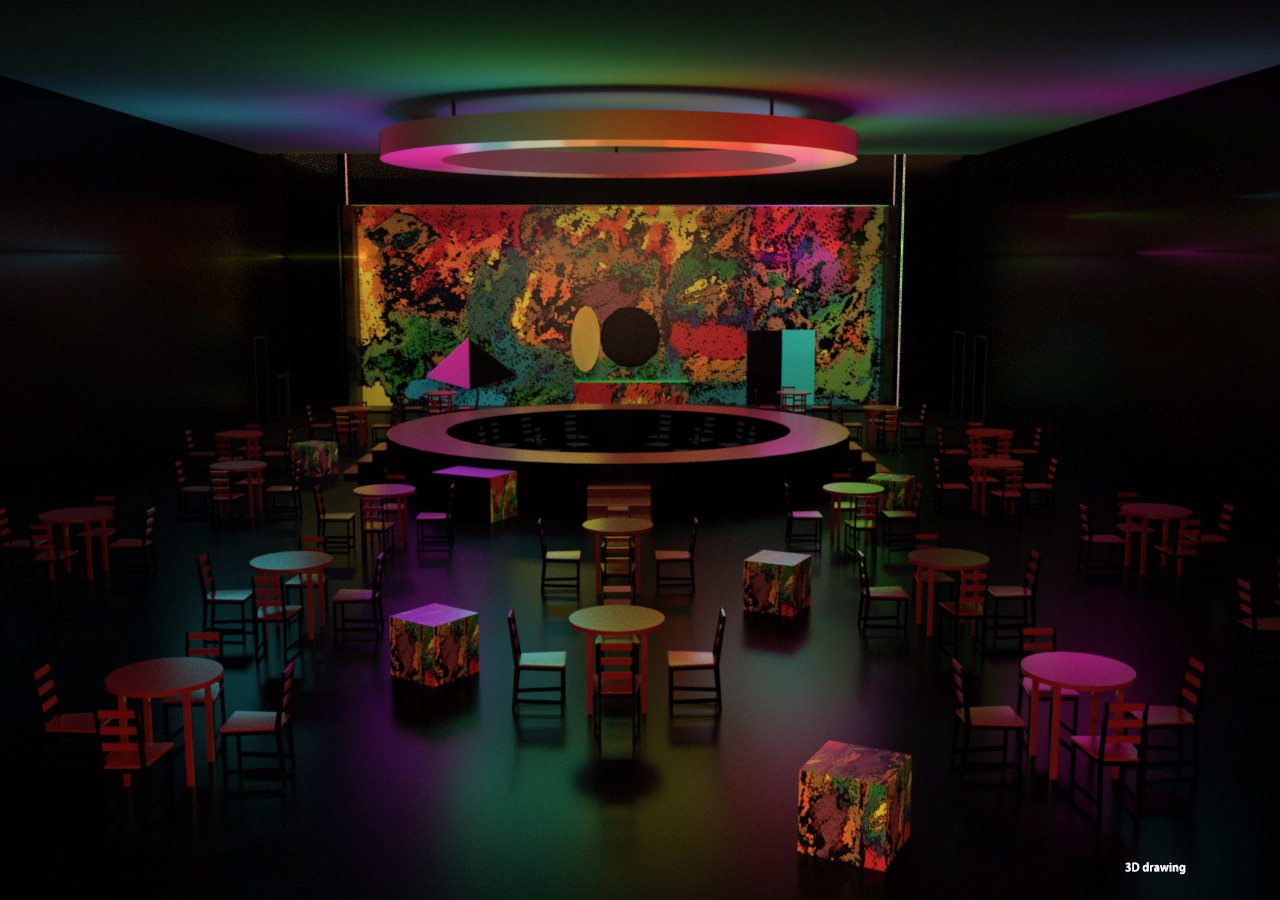
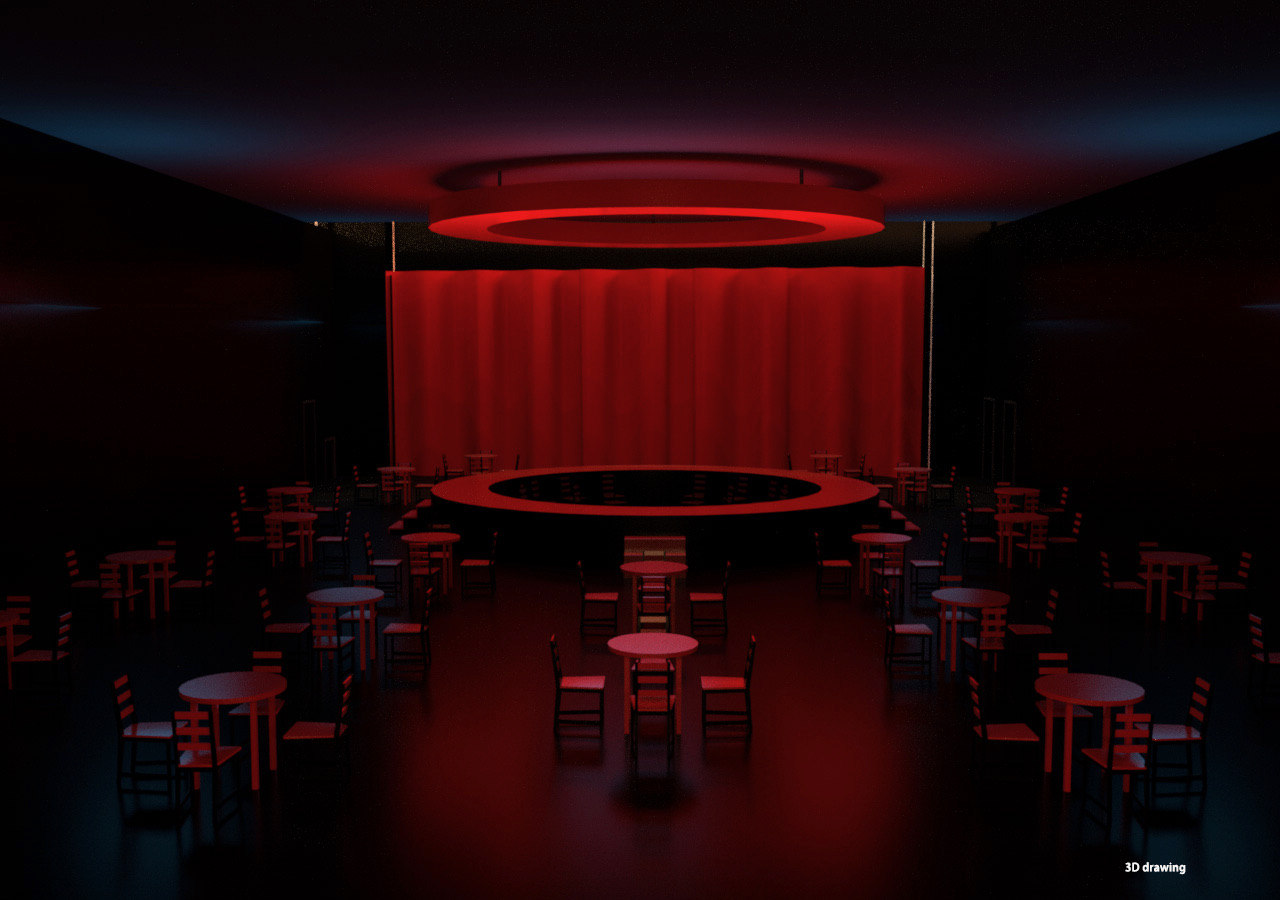
Standardize portfolio credits and update gallery images

diff --git a/src/app/App.tsx b/src/app/App.tsx
@@ -64,6 +64,7 @@ const xingHanYunYiGalleryImages = [
   "/xing-han-yun-yi/01.jpg",
   "/xing-han-yun-yi/02.jpg",
   "/xing-han-yun-yi/03.jpg",
+  "/xing-han-yun-yi/04.jpg",
 ];
 
 const chaYuFanHouGalleryImages = [
@@ -103,8 +104,8 @@ const projects: Project[] = [
     id: 2,
     title: "Orphous in der Unterwelt",
     subtitle: {
-      zh: "Opéra-Bouffon in 2 Akten/4 Bildern",
-      en: "Opéra-Bouffon in 2 Akten/4 Bildern",
+      zh: "舞台设计 · 朱佳乐",
+      en: "Stage Design · Jiale Zhu",
     },
     year: "2021",
     venue: {
@@ -122,7 +123,7 @@ const projects: Project[] = [
     id: 3,
     title: "Panic:Attacks",
     subtitle: {
-      zh: "Costume Design · Jiale Zhu",
+      zh: "服装设计 · 朱佳乐",
       en: "Costume Design · Jiale Zhu",
     },
     year: "2022",
@@ -141,8 +142,8 @@ const projects: Project[] = [
     id: 4,
     title: "Rausch",
     subtitle: {
-      zh: "Costume Design · Jiale Zhu",
-      en: "Costume Design · Jiale Zhu",
+      zh: "舞台、服装、灯光设计 · 朱佳乐",
+      en: "Stage, costume and lighting design · Jiale Zhu",
     },
     year: "2021",
     venue: {
@@ -152,16 +153,16 @@ const projects: Project[] = [
     image: rauschGalleryImages[0],
     images: rauschGalleryImages,
     description: {
-      zh: "Directed by: Lea Oltmanns. Stage: Julia Soest, Magdalena Hofer, Jiale Zhu. Costume Design: Jiale Zhu.",
-      en: "Directed by: Lea Oltmanns. Stage: Julia Soest, Magdalena Hofer, Jiale Zhu. Costume Design: Jiale Zhu.",
+      zh: "Directed by: Lea Oltmanns. Stage: Julia Soest, Magdalena Hofer, Jiale Zhu. Stage, costume and lighting design: Jiale Zhu.",
+      en: "Directed by: Lea Oltmanns. Stage: Julia Soest, Magdalena Hofer, Jiale Zhu. Stage, costume and lighting design: Jiale Zhu.",
     },
   },
   {
     id: 5,
     title: "Die Zauberflote",
     subtitle: {
-      zh: "Oper von Wolfgang Amadé Mozart",
-      en: "Oper von Wolfgang Amadé Mozart",
+      zh: "服装设计 · 朱佳乐",
+      en: "Costume Design · Jiale Zhu",
     },
     year: "2021",
     venue: {
@@ -180,8 +181,8 @@ const projects: Project[] = [
     title: "Xing Han Yun Yi",
     titleZh: "星汉云逸",
     subtitle: {
-      zh: "汉唐古典舞双人舞",
-      en: "Duet Han-Tang Classical Dance",
+      zh: "服装设计 · 朱佳乐",
+      en: "Costume Design · Jiale Zhu",
     },
     year: "2013",
     venue: {
@@ -200,8 +201,8 @@ const projects: Project[] = [
     title: "Cha Yu Fan Hou",
     titleZh: "茶余饭后",
     subtitle: {
-      zh: "当代舞",
-      en: "Contemporary Dance",
+      zh: "舞台、服装设计 · 朱佳乐",
+      en: "Stage and costume design · Jiale Zhu",
     },
     year: "2014",
     venue: {
@@ -220,15 +221,15 @@ const projects: Project[] = [
     title: "Hong Gao Liang",
     titleZh: "红高粱",
     subtitle: {
-      zh: "中国民族舞独舞",
-      en: "Solo Chinese Ethnic Dance",
+      zh: "服装设计 · 朱佳乐",
+      en: "Costume Design · Jiale Zhu",
     },
     year: "2013",
     venue: {
       zh: "Beijing",
       en: "Beijing",
     },
-    image: hongGaoLiangGalleryImages[0],
+    image: hongGaoLiangGalleryImages[1],
     images: hongGaoLiangGalleryImages,
     description: {
       zh: "Solo Chinese Ethnic Dance. Costume Design: Jiale Zhu.",
